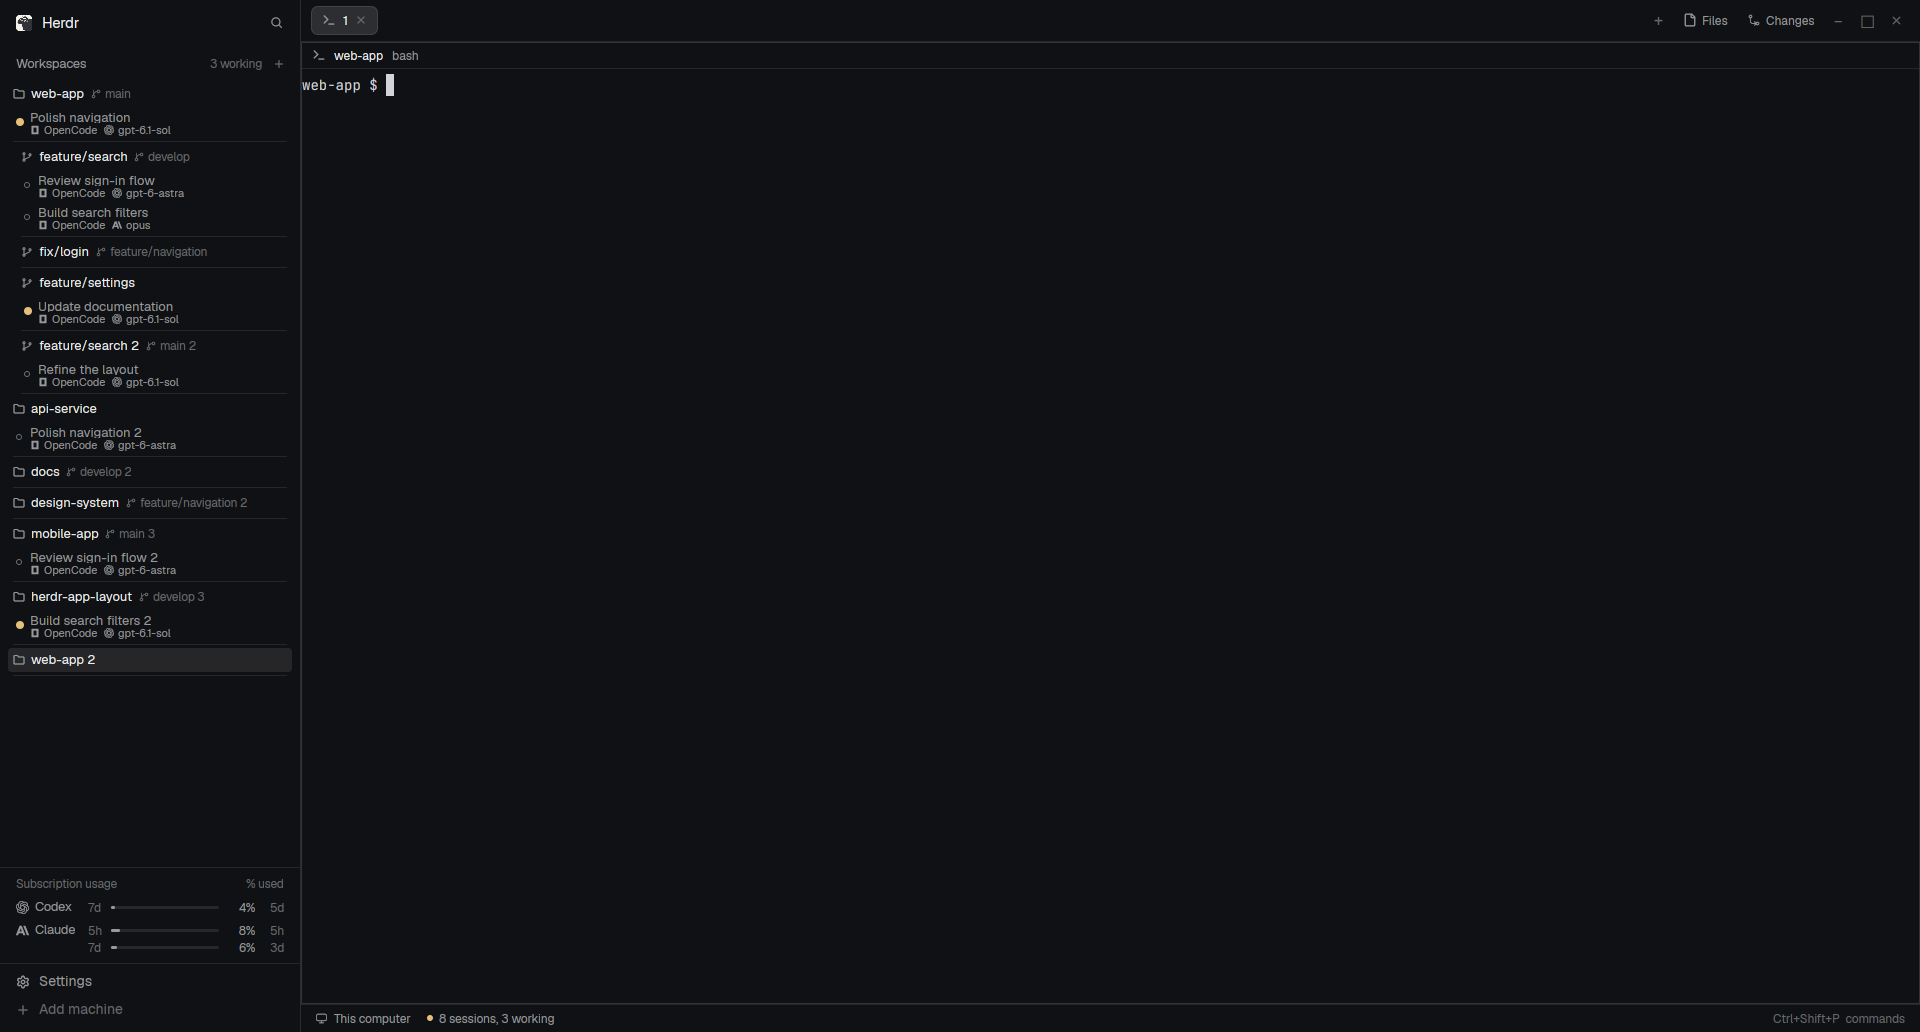
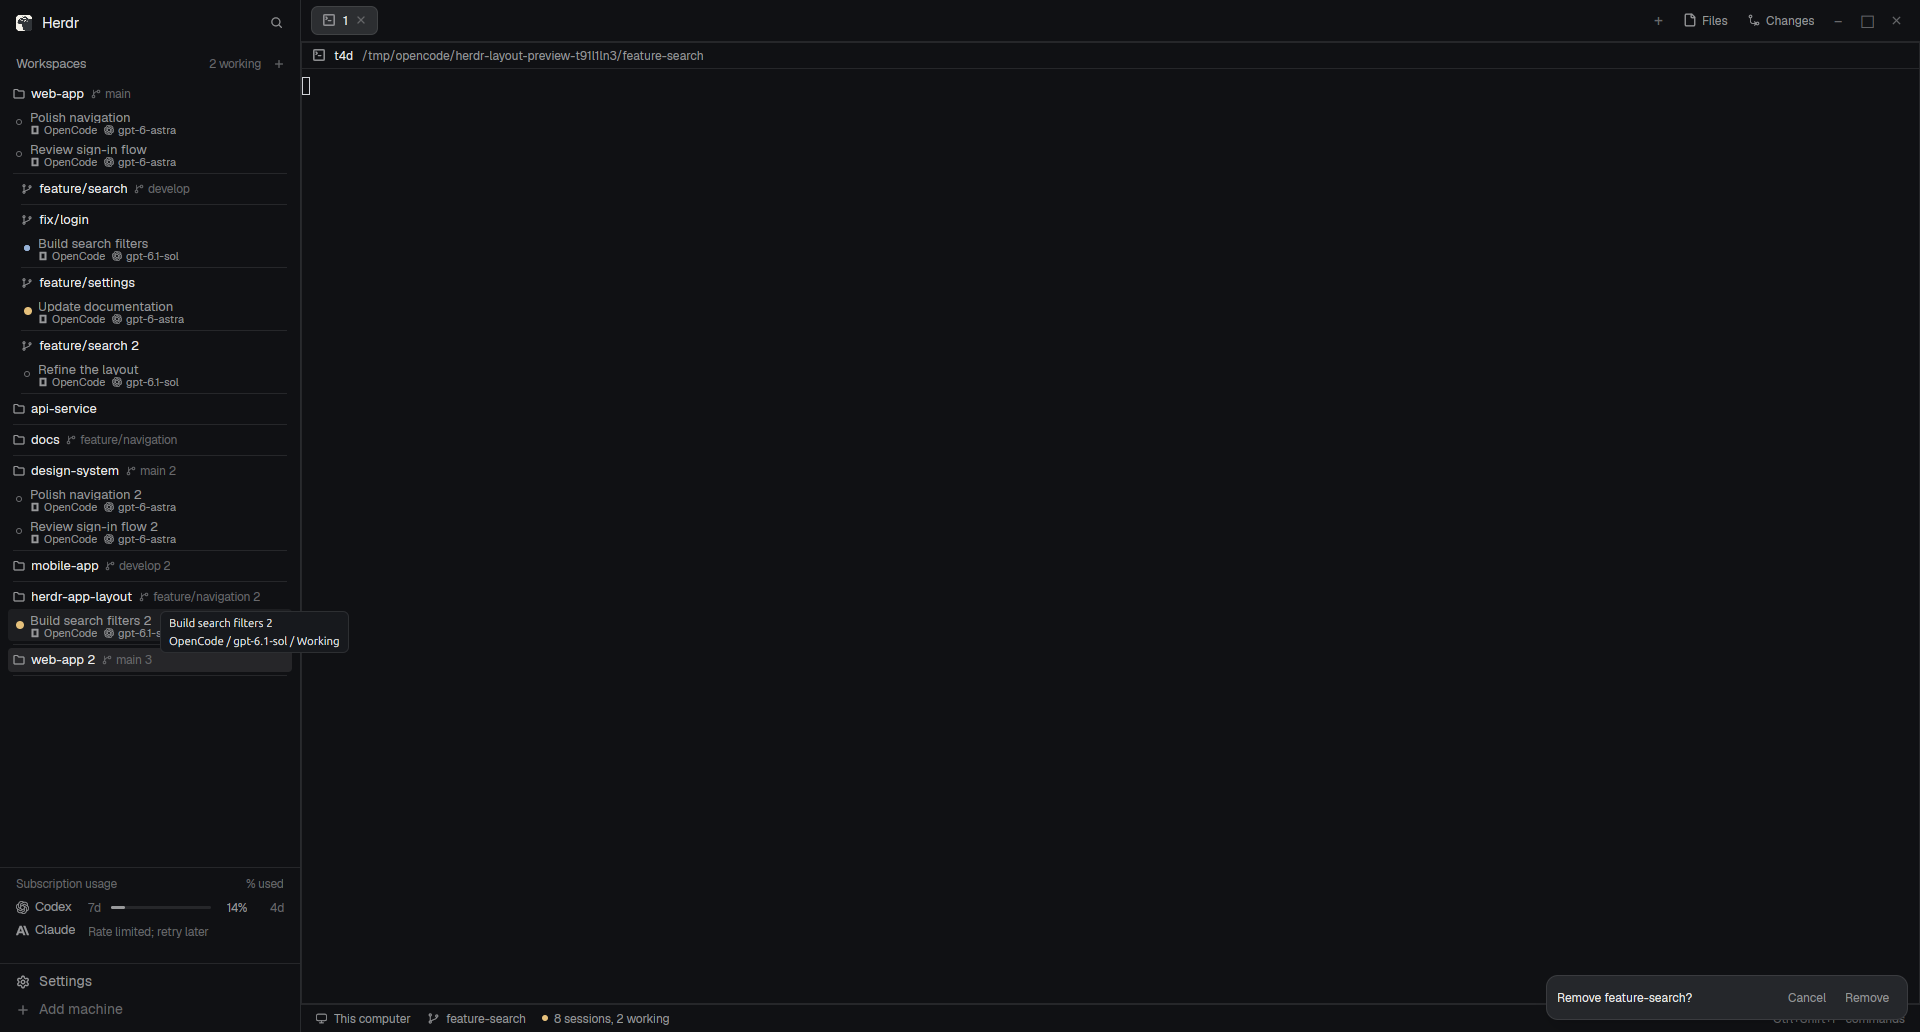
Make worktree removal compact and non-blocking

diff --git a/minimalist-compact/mods/minimalist-compact-worktree-remove/main.js b/minimalist-compact/mods/minimalist-compact-worktree-remove/main.js
@@ -1,0 +1,131 @@
+import { View, div } from "gpui-kit";
+import { h_flex, v_flex } from "gpui-base";
+import { exec, nextCommand, panes, run, shared, spaces, theme } from "herdr";
+import { inspect, remove } from "./git.js";
+
+/** @typedef {{ space: string, machine: string | null, name: string, snapshot: import("./git.js").Snapshot }} Target */
+/** @typedef {{ kind: "idle" } | { kind: "loading" } | { kind: "failed", message: string } |
+ * { kind: "ready", target: Target, error: string } | { kind: "removing", target: Target }} State */
+
+/** @param {string | null} machine @returns {import("./git.js").Git} */
+function gitOn(machine) {
+  return async (cwd, args, timeout) => {
+    const result = await exec("git", args, { cwd, on: machine, ...(timeout === undefined ? {} : { timeout }) });
+    return { ok: result.code === 0, out: result.stdout.trim(), err: result.stderr.trim() };
+  };
+}
+
+/** @param {import("./git.js").Risk} risk */
+function warning(risk) {
+  if (risk.dirty && risk.unpushed.length) return "Changes and unpushed submodule commits will be lost.";
+  if (risk.unpushed.length) return "Unpushed submodule commits will be lost.";
+  if (risk.dirty) return "Uncommitted changes will be lost.";
+  return "";
+}
+
+/** Validate the app's string-valued theme at the native element boundary.
+ * @param {string} value @returns {import("gpui-kit").Color} */
+function color(value) {
+  return /^#[\da-f]{6}([\da-f]{2})?$/i.test(value) ? `#${value.slice(1)}` : "#808080";
+}
+
+function colors() {
+  const t = theme();
+  return { foreground: color(t.foreground), muted: color(t.muted), blocked: color(t.blocked), hover: color(t.hover) };
+}
+
+export default class CompactWorktreeRemoval extends View {
+  /** @param {unknown} _props @param {import("gpui-kit").Context} cx */
+  init(_props, cx) {
+    /** @type {State} */
+    this.state = { kind: "idle" };
+    this.handle = cx.focus_handle();
+    cx.spawn(async (cx) => {
+      for (;;) {
+        if (await nextCommand() === "start") await this.start(cx);
+      }
+    });
+  }
+
+  /** @param {import("gpui-kit").Context} cx */
+  async start(cx) {
+    if (this.state.kind === "removing" || this.state.kind === "loading") return;
+    const space = spaces().find((space) => space.id === shared("minimalist-compact.remove-worktree"));
+    if (!space) return;
+    const tabs = new Set(space.tabs.map((tab) => tab.id));
+    const folder = panes().find((pane) => tabs.has(pane.tab) && pane.cwd)?.cwd || space.folder;
+    this.state = { kind: "loading" };
+    cx.notify();
+    try {
+      const snapshot = await inspect(gitOn(space.machine), folder);
+      const name = snapshot.checkout.top.replace(/\\/g, "/").split("/").pop() || "worktree";
+      this.state = { kind: "ready", target: { space: space.id, machine: space.machine, name, snapshot }, error: "" };
+      this.handle.focus();
+    } catch (error) { this.state = { kind: "failed", message: String(error) }; }
+    cx.notify();
+  }
+
+  /** @param {import("gpui-kit").Context} cx */
+  dismiss(cx) {
+    if (this.state.kind === "removing" || this.state.kind === "loading") return;
+    this.state = { kind: "idle" };
+    cx.notify();
+  }
+
+  /** @param {import("gpui-kit").Context} cx */
+  confirm(cx) {
+    if (this.state.kind !== "ready") return;
+    const target = this.state.target;
+    this.state = { kind: "removing", target };
+    cx.notify();
+    cx.spawn(async (cx) => {
+      try {
+        const result = await remove(gitOn(target.machine), target.snapshot,
+          () => run("space.close", { id: target.space, confirmed: true }));
+        this.state = result.kind === "removed" ? { kind: "idle" } :
+          { kind: "ready", target: { ...target, snapshot: result.snapshot }, error: "Changed since confirmation. Remove anyway?" };
+      } catch (error) { this.state = { kind: "ready", target, error: String(error) }; }
+      cx.notify();
+    });
+  }
+
+  /** @param {string} label @param {(cx: import("gpui-kit").Context) => void} action @param {ReturnType<typeof colors>} t */
+  button(label, action, t) {
+    return div().id(`removal-${label}`).px(7).py(2).rounded(7).text_color(t.muted)
+      .hover((el) => el.bg(t.hover).text_color(t.foreground))
+      .on_mouse_down("left", (_event, cx) => cx.stop_propagation())
+      .on_click((_event, cx) => action(cx)).child(label);
+  }
+
+  /** @param {ReturnType<typeof colors>} t */
+  content(t) {
+    const state = this.state;
+    if (state.kind === "loading") return div().child("Checking worktree…");
+    if (state.kind === "removing") return div().truncate().tooltip(state.target.snapshot.checkout.top).child(`Removing ${state.target.name}…`);
+    if (state.kind === "failed") return h_flex().items_center()
+      .child(div().flex_1().min_w(0).truncate().text_color(t.blocked).tooltip(state.message).child(state.message))
+      .child(this.button("Close", (cx) => this.dismiss(cx), t));
+    if (state.kind !== "ready") return div();
+    const detail = state.error || warning(state.target.snapshot.risk);
+    return v_flex().gap(2)
+      .child(h_flex().items_center().gap(4)
+        .child(div().flex_1().min_w(0).truncate().tooltip(state.target.snapshot.checkout.top).child(`Remove ${state.target.name}?`))
+        .child(this.button("Cancel", (cx) => this.dismiss(cx), t))
+        .child(this.button("Remove", (cx) => this.confirm(cx), t)))
+      .when(Boolean(detail), (el) => el.child(div().text_size(11).text_color(t.blocked).truncate().tooltip(detail).child(detail)));
+  }
+
+  render() {
+    if (this.state.kind === "idle") return div().id("compact-worktree-removal").track_focus(this.handle);
+    const t = colors();
+    return v_flex().id("compact-worktree-removal").w(360).px(10).py(5).text_size(12).text_color(t.foreground)
+      .track_focus(this.handle)
+      .on_key_down((event, cx) => {
+        if (event.key === "escape") this.dismiss(cx);
+        else if (event.key === "enter") this.confirm(cx);
+        else return;
+        cx.stop_propagation();
+      })
+      .child(this.content(t));
+  }
+}

diff --git a/minimalist-compact/mods/minimalist-compact-worktree-remove/git.js b/minimalist-compact/mods/minimalist-compact-worktree-remove/git.js
@@ -1,0 +1,75 @@
+// @ts-check
+// Removal safeguards adapted from Herdr's shipped worktree mod.
+/** @typedef {{ ok: boolean, out: string, err: string }} Result */
+/** @typedef {(cwd: string, args: string[], timeout?: number) => Promise<Result>} Git */
+/** @typedef {{ top: string, main: string }} Checkout */
+/** @typedef {{ dirty: boolean, modules: number, unpushed: string[] }} Risk */
+/** @typedef {{ checkout: Checkout, risk: Risk }} Snapshot */
+/** @typedef {{ name: string, dir: string, pinned: string }} Submodule */
+
+/** Fail closed on unreadable Git state. @param {Result} result */
+function checked(result) {
+  if (!result.ok) throw new Error(result.err || "Git could not check this worktree.");
+  return result.out;
+}
+
+/** Include nested and deinitialized submodules: their histories also disappear.
+ * @param {Git} git @param {string} dir @param {string[]} config
+ * @param {string} parent @returns {Promise<Submodule[]>} */
+async function modules(git, dir, config, parent = "") {
+  const keys = await git(dir, ["--git-dir", dir, "config", ...config, "-z", "--get-regexp", "^submodule\\..*\\.path$"]);
+  if (!keys.ok) {
+    if (keys.err) throw new Error(keys.err);
+    return [];
+  }
+  /** @type {Submodule[]} */
+  const found = [];
+  for (const record of keys.out.split("\0").filter(Boolean)) {
+    const at = record.indexOf("\n");
+    const name = record.slice("submodule.".length, at - ".path".length);
+    const child = `${dir}/modules/${name}`;
+    if (!(await git(dir, ["--git-dir", child, "rev-parse", "--git-dir"])).ok) continue;
+    const pinned = await git(dir, ["--git-dir", dir, "rev-parse", `HEAD:${record.slice(at + 1)}`]);
+    found.push({ name: parent + name, dir: child, pinned: pinned.ok ? pinned.out : "" });
+    if ((await git(dir, ["--git-dir", child, "cat-file", "-e", "HEAD:.gitmodules"])).ok)
+      found.push(...await modules(git, child, ["--blob", "HEAD:.gitmodules"], `${parent + name}/`));
+  }
+  return found;
+}
+
+/** @param {Git} git @param {Checkout} checkout @returns {Promise<Risk>} */
+async function riskOf(git, checkout) {
+  const status = checked(await git(checkout.top, ["--no-optional-locks", "-c", "core.fsmonitor=false", "status", "--porcelain"]));
+  const dir = checked(await git(checkout.top, ["rev-parse", "--absolute-git-dir"]));
+  const children = await modules(git, dir, ["--file", `${checkout.top}/.gitmodules`]);
+  const unpushed = [];
+  for (const child of children) {
+    const local = checked(await git(dir, ["--git-dir", child.dir, "rev-list", "-n1", "--all", "--not", "--remotes", ...(child.pinned ? [child.pinned] : [])]));
+    if (local) unpushed.push(child.name);
+  }
+  return { dirty: status !== "", modules: children.length, unpushed };
+}
+
+/** @param {Git} git @param {string} folder @returns {Promise<Snapshot>} */
+export async function inspect(git, folder) {
+  const top = checked(await git(folder, ["rev-parse", "--show-toplevel"]));
+  const common = checked(await git(folder, ["rev-parse", "--path-format=absolute", "--git-common-dir"]));
+  const main = common.endsWith("/.git") ? common.slice(0, -5) : common;
+  if (main === top) throw new Error("The main checkout cannot be removed.");
+  const checkout = { top, main };
+  return { checkout, risk: await riskOf(git, checkout) };
+}
+
+/** Recheck consent before closing terminals or deleting anything.
+ * @param {Git} git @param {Snapshot} snapshot @param {() => void} closeSpace
+ * @returns {Promise<{ kind: "removed" } | { kind: "changed", snapshot: Snapshot }>} */
+export async function remove(git, snapshot, closeSpace) {
+  const risk = await riskOf(git, snapshot.checkout);
+  if ((risk.dirty && !snapshot.risk.dirty) || risk.unpushed.some((name) => !snapshot.risk.unpushed.includes(name)))
+    return { kind: "changed", snapshot: { checkout: snapshot.checkout, risk } };
+  closeSpace(); // Release Windows shells' handles before Git deletes the checkout.
+  const force = risk.dirty || risk.modules > 0;
+  checked(await git(snapshot.checkout.main,
+    ["worktree", "remove", ...(force ? ["--force"] : []), snapshot.checkout.top], 600_000));
+  return { kind: "removed" };
+}

diff --git a/minimalist-compact/mods/minimalist-compact-menu/main.js b/minimalist-compact/mods/minimalist-compact-menu/main.js
@@ -1,7 +1,7 @@
 // Layout-only workspace/tab menus. Shipped terminal menus remain untouched.
 import { View, div, svg } from "gpui-kit";
 import { v_flex, h_flex } from "gpui-base";
-import { run, props, closeOverlay, openOverlay, theme, spaces, panes, exec, keys } from "herdr";
+import { run, props, closeOverlay, openOverlay, theme, spaces, panes, exec, keys, setShared } from "herdr";
 import { menuTarget, menuItems } from "./model.js";
 
 function place(space) {
@@ -20,6 +20,18 @@ function shortcut(item) {
   if (item.kind !== "command") return "";
   const binding = keys().find((binding) => binding.section === "global" && binding.action === item.command);
   return binding?.keys ?? "";
+}
+
+/** Removal uses the layout's content-sized status strip; other worktree dialogs stay native.
+ * @param {Extract<import("./model.js").MenuItem, { kind: "worktree" }>} item */
+function worktreeOverlay(item) {
+  const props = { space: item.space, action: item.action };
+  if (item.action === "remove") {
+    setShared("minimalist-compact.remove-worktree", item.space);
+    return run("minimalist-compact-worktree-remove.start");
+  }
+  return openOverlay({ mod: "worktree", kind: "dialog",
+    ...(item.action === "open" ? { width: 560, height: 480 } : { width: 440, height: 260 }), props });
 }
 
 export default class MinimalistCompactMenu extends View {
@@ -43,9 +55,7 @@ export default class MinimalistCompactMenu extends View {
     if (!item) return;
     closeOverlay(props()?.overlay);
     if (item.kind === "command") run(item.command, item.args);
-    else openOverlay({ mod: "worktree", kind: "dialog",
-      ...(item.action === "open" ? { width: 560, height: 480 } : { width: 440, height: 260 }),
-      props: { space: item.space, action: item.action } });
+    else worktreeOverlay(item);
   }
 
   key(e, cx, count) {

diff --git a/minimalist-compact/RECIPE.md b/minimalist-compact/RECIPE.md
@@ -19,6 +19,7 @@ A compact coding workspace for Herdr: worktrees grouped under repositories, Open
 - Working: static theme-working dot. Waiting for input/blocked: red (`ansi1`). Done/unread: blue (`ansi4`). Idle: hollow subdued dot. Status text is available in tooltips only on session rows.
 - A sole selected OpenCode tab inherits Herdr's unread completion when bridge metadata reports idle; viewing it lets Herdr clear completion. With multiple OpenCode tabs, each uses only its own bridge status because terminal-wide completion cannot identify which tab finished. Native agent rows use Herdr's status directly.
 - Clicking a workspace selects its space; right-click opens its layout-owned menu. Clicking a session focuses its terminal and, with the companion plugin, its specific OpenCode tab. Session/tab right-click opens the containing Herdr tab's menu. These menus retain tab/worktree actions but omit Rename; double-clicking a tab only selects it. Native rename commands remain available.
+- Remove worktree uses a one-line bottom-right confirmation/progress strip, with an extra line only for warnings or errors. It keeps the branch, checks for newly uncommitted changes and unpushed submodule commits before deletion, and leaves the workspace usable. New/Open worktree keep their centered dialogs.
 - Worktrees are grouped under their main checkout via Git metadata. Names/branches follow live folders; ordinary shell panes are omitted from session rows. Agent cycling follows the displayed session order.
 - OpenCode tab closing uses OpenCode itself: Ctrl+X then W with its default bindings.
 - Usage refreshes automatically every two minutes by default; `mods/provider-usage/config.js` controls both polling and cache lifetime and hot-reloads on save. The bundled `keys.json` adds Ctrl+Shift+R for `provider-usage.refresh`, bypassing the usage cache and rereading current logins. Merge that fragment into existing Herdr keys; preserve unrelated bindings. Missing logins or errors show concise unavailable messages.
@@ -39,6 +40,7 @@ Layout mods:
 - `minimalist-compact-pane-header`: pane titles, folders and split/zoom/close controls using `props.pane`.
 - `minimalist-compact-session-status`: native workspace/branch summary and custom session/working counts.
 - `minimalist-compact-menu`: workspace/tab menus, validated targets and native worktree dialogs, without Rename.
+- `minimalist-compact-worktree-remove`: content-sized removal confirmation/progress floating at the bottom-right, with Git data-loss safeguards.
 
 The mods use gpui-kit/gpui-base and Herdr's live `spaces`, `panes`, `agents`, `terminals`, `theme`, `shared`, `run`, overlays, `exec`, `hc`, file APIs and folder watchers. The inherited spaces implementation handles Git grouping and remote machines. Only foreground coding-agent processes qualify, so stale OSC state cannot resurrect exited agents.
 
